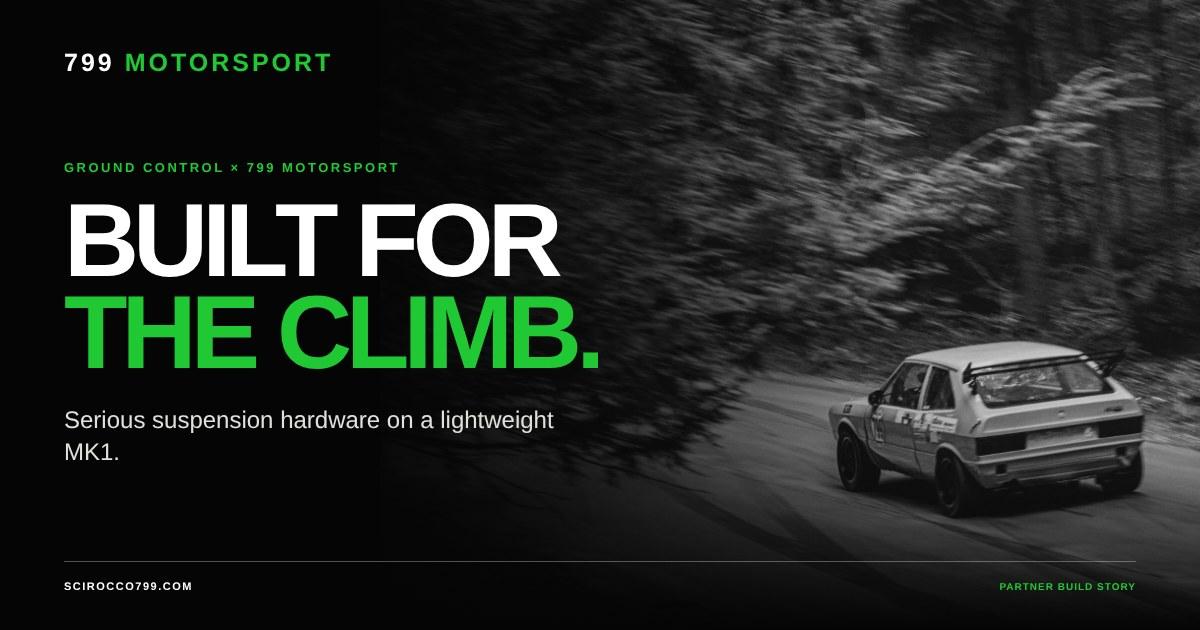
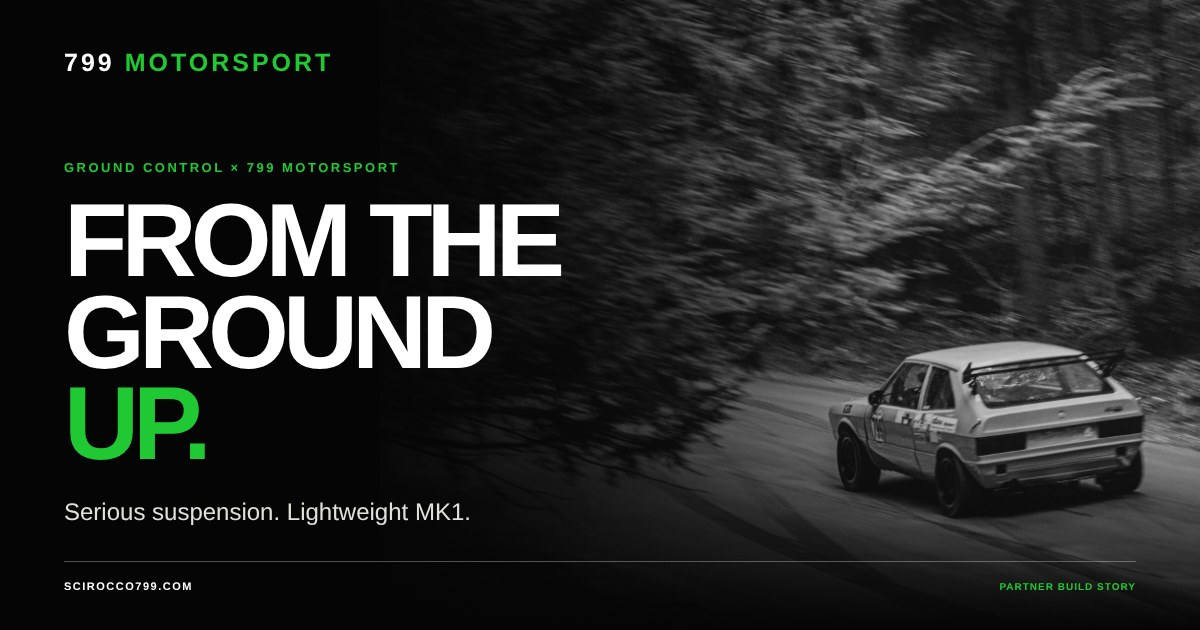
Ground Control headline: FROM THE GROUND UP.
Hero, page title and share card updated to match.

Changed region(s): [[0.0308, 0.3016, 0.4933, 0.754], [0.0617, 0.7841, 0.4008, 0.8444]]

diff --git a/ground-control.html b/ground-control.html
@@ -1,4 +1,4 @@
-<!doctype html><html lang="en"><head><meta charset="utf-8"><meta name="viewport" content="width=device-width,initial-scale=1"><title>Built for the Climb | Ground Control × 799 Motorsport</title><meta name="description" content="Inside the custom Ground Control suspension build on the 799 Motorsport Volkswagen Scirocco, from strut tower preparation to Empire Hill Climb and Grattan testing."><link rel="stylesheet" href="/mobile-nav.css?v=1"><script src="/mobile-nav.js?v=1" defer></script><style>
+<!doctype html><html lang="en"><head><meta charset="utf-8"><meta name="viewport" content="width=device-width,initial-scale=1"><title>From the Ground Up | Ground Control × 799 Motorsport</title><meta name="description" content="Inside the custom Ground Control suspension build on the 799 Motorsport Volkswagen Scirocco, from strut tower preparation to Empire Hill Climb and Grattan testing."><link rel="stylesheet" href="/mobile-nav.css?v=1"><script src="/mobile-nav.js?v=1" defer></script><style>
 :root{--green:#20c933;--paper:#f2f2ef}*{box-sizing:border-box}html{scroll-behavior:smooth}body{margin:0;background:#080a08;color:#fff;font-family:Arial,Helvetica,sans-serif}a{color:inherit}.wrap{width:min(1180px,calc(100% - 40px));margin:auto}nav{padding:26px 0;border-bottom:1px solid #343a33}.nav{display:flex;align-items:center;justify-content:space-between;gap:14px}.brand{white-space:nowrap}.links{align-items:center}.links a:hover,.links a:focus-visible{color:#20c933}.brand{text-decoration:none;font-size:18px;font-weight:900;letter-spacing:.09em}.brand span{color:var(--green)}.links{display:flex;gap:24px}.links a{font-size:11px;font-weight:900;text-decoration:none;letter-spacing:.1em;text-transform:uppercase}.eyebrow{color:var(--green);font-size:11px;font-weight:900;letter-spacing:.22em;text-transform:uppercase}h1,h2,h3{font-weight:900;text-transform:uppercase;letter-spacing:-.045em}h1{font-size:clamp(60px,10vw,140px);line-height:.86;margin:25px 0}h2{font-size:clamp(42px,6vw,80px);line-height:.94;margin:15px 0 30px}h3{font-size:26px;margin:0 0 14px}p{color:#c7cec7;font-size:17px;line-height:1.75}.lead{font-size:clamp(20px,2.5vw,28px);line-height:1.45;color:#fff}.hero{padding:105px 0 85px;position:relative;overflow:hidden;min-height:690px;display:flex;align-items:center;background-image:linear-gradient(90deg,rgba(5,5,5,.95) 0%,rgba(5,5,5,.78) 38%,rgba(5,5,5,.29) 72%,rgba(5,5,5,.14) 100%),url("/images/ground-control/empire-hero.webp");background-position:center,center 80%;background-size:cover;background-repeat:no-repeat;background-color:#0b0e0b}.hero .intro{max-width:900px}.hero h1 em{font-style:normal;color:var(--green)}.hero-tags{display:flex;flex-wrap:wrap;gap:10px;margin-top:35px}.hero-tags span{padding:11px 15px;border:1px solid #465046;font-size:10px;font-weight:900;letter-spacing:.13em;text-transform:uppercase}.feature{padding:90px 0}.split{display:grid;grid-template-columns:.85fr 1.15fr;gap:65px;align-items:start}.white{background:var(--paper);color:#111}.white p{color:#343b34}.photo{display:block;width:100%;aspect-ratio:16/9;object-fit:cover;background:#202720}.caption{font-size:12px;color:#879087;margin-top:12px}.white .caption{color:#666}.photo-frame{margin:0}.gallery{display:grid;grid-template-columns:1fr 1fr;gap:16px;margin-top:38px}.gallery figure{margin:0}.gallery img{width:100%;aspect-ratio:16/9;object-fit:cover;background:#1c211c}.gallery figcaption{padding:12px 0;color:#aab3aa;font-size:13px}.compare-section{padding:100px 0;background:#101710}.compare{position:relative;width:100%;aspect-ratio:1890/910;overflow:hidden;border:1px solid #506150;touch-action:pan-y;user-select:none;background:#1d251d;cursor:ew-resize}.compare img{position:absolute;inset:0;width:100%;height:100%;object-fit:cover;pointer-events:none}.compare img.after{clip-path:inset(0 50% 0 0)}.compare .divider{position:absolute;top:0;bottom:0;left:50%;width:3px;background:#fff;transform:translateX(-50%);pointer-events:none;box-shadow:0 0 0 1px #0006}.compare .handle{position:absolute;left:50%;top:50%;transform:translate(-50%,-50%);height:56px;width:56px;border-radius:50%;border:3px solid white;background:#111b13;color:#fff;display:grid;place-items:center;font-weight:900;font-size:20px;pointer-events:none}.compare .tag{position:absolute;z-index:2;top:20px;padding:10px 14px;background:#08140cdd;font-size:11px;font-weight:900;letter-spacing:.13em;white-space:nowrap;pointer-events:none}.compare .tag.before{right:20px}.compare .tag.after{left:20px}.compare input{position:absolute;inset:0;width:100%;height:100%;opacity:0;cursor:ew-resize;z-index:5;margin:0;touch-action:none}.compare-note{text-align:center;color:#a8bca9;font-size:13px}.specs{display:grid;grid-template-columns:repeat(3,minmax(0,1fr));gap:1px;background:#333;border:1px solid #333;margin-top:45px}.spec{display:flex;flex-direction:column;align-items:flex-start;min-width:0;min-height:210px;padding:27px 29px 30px;background:#101010;color:#fff}.spec:nth-child(even){background:#fff;color:#101010}.spec .spec-kicker{font-size:10px;font-weight:900;letter-spacing:.17em;text-transform:uppercase;opacity:.65;margin-bottom:12px}.spec strong{display:block;font-size:clamp(23px,2.5vw,31px);line-height:1.08;letter-spacing:-.025em}.spec .spec-name{display:block;margin-top:14px;font-size:14px;font-weight:800;line-height:1.4}.spec .spec-detail{display:block;margin-top:8px;font-size:12px;line-height:1.55;color:#bbb}.spec:nth-child(even) .spec-detail{color:#555}.race-week-note{max-width:920px;margin:33px 0 34px;padding-left:21px;border-left:3px solid var(--green);font-size:17px;line-height:1.75;color:#d0d7d0}.race-week-note strong{color:#fff}.steps{display:grid;grid-template-columns:repeat(3,1fr);gap:15px;margin-top:45px}.step{padding:30px;border:1px solid #4a524a;background:#121812}.step .num{font-size:42px;font-weight:900;color:var(--green)}.step p{font-size:15px}.timeline{display:grid;grid-template-columns:1fr 1fr;gap:15px;margin-top:45px}.event{padding:35px;background:#151b15;border-top:3px solid var(--green)}.event small{color:var(--green);font-weight:900;letter-spacing:.15em}.event h3{margin-top:20px}.end{padding:100px 0;background:var(--green);color:#081208}.end h2{max-width:950px}.end p{color:#102b13;max-width:800px}.btn{display:inline-block;margin-top:20px;background:#101510;color:white;text-decoration:none;font-size:12px;font-weight:900;letter-spacing:.14em;padding:18px 24px;text-transform:uppercase}footer{padding:35px 0;color:#9da69d;font-size:12px}.footer{display:flex;justify-content:space-between;gap:20px}.image-missing{background:#162016}.template{max-width:100%;height:auto;background:white;padding:10px}@media(max-width:760px){.links{display:none}.hero{padding:70px 0;min-height:640px;background-image:linear-gradient(180deg,rgba(5,5,5,.70) 0%,rgba(5,5,5,.72) 45%,rgba(5,5,5,.95) 100%),url("/images/ground-control/empire-hero.webp");background-position:center,66% center}.split,.steps,.timeline,.specs,.gallery{grid-template-columns:1fr}.feature,.compare-section,.end{padding:65px 0}.hero h1{font-size:clamp(56px,15vw,85px)}.footer{flex-direction:column}.compare .handle{width:42px;height:42px}.compare .tag{font-size:9px;top:8px;padding:7px}.compare{aspect-ratio:1890/910}} @media(max-width:760px){.spec{min-height:0;padding:25px 24px 27px}.spec strong{font-size:27px}.race-week-note{margin:25px 0 30px;font-size:16px}}@media(max-width:380px){.nav{gap:8px}.brand{font-size:15px}}@media(max-width:760px){.gallery img{height:auto;aspect-ratio:auto;object-fit:contain}.wrap{width:calc(100% - 32px)}.compare-note{font-size:11px}.hero h1{overflow-wrap:normal}}
 /* Partner identity: monochrome at rest, original sponsor colors on hover/focus. */
 .gc-logo-link{display:inline-flex;flex-direction:column;gap:13px;max-width:min(410px,100%);margin-top:34px;text-decoration:none}
@@ -48,7 +48,8 @@ nav{padding:28px 0;border-bottom:1px solid #292929}
 .links .active{padding:11px 15px;border:1px solid var(--green);opacity:1}
 @media(max-width:800px){.links{display:none}}
 @media(max-width:600px){nav{padding:20px 0}.brand{font-size:16px}}
-</style><noscript><style>.motion-word{animation-play-state:running}</style></noscript><!-- Site icons and link previews -->
+</style><noscript><style>.motion-word{animation-play-state:running}</style></noscript><link rel="stylesheet" href="/footer.css?v=1">
+<!-- Site icons and link previews -->
 <link rel="icon" href="favicon.ico" sizes="16x16 32x32 48x48">
 <link rel="icon" href="favicon.svg" type="image/svg+xml">
 <link rel="apple-touch-icon" href="apple-touch-icon.png" sizes="180x180">
@@ -56,24 +57,23 @@ nav{padding:28px 0;border-bottom:1px solid #292929}
 <link rel="canonical" href="https://scirocco799.com/ground-control">
 <meta property="og:site_name" content="Scirocco 799">
 <meta property="og:type" content="website">
-<meta property="og:title" content="Built for the Climb | Ground Control × 799 Motorsport">
+<meta property="og:title" content="From the Ground Up | Ground Control × 799 Motorsport">
 <meta property="og:description" content="Inside the custom Ground Control suspension build on the 799 Motorsport Volkswagen Scirocco, from strut tower preparation to Empire Hill Climb and Grattan testing.">
 <meta property="og:url" content="https://scirocco799.com/ground-control">
 <meta property="og:image" content="https://scirocco799.com/images/social/799-ground-control-v1.jpg">
 <meta property="og:image:type" content="image/jpeg">
 <meta property="og:image:width" content="1200">
 <meta property="og:image:height" content="630">
-<meta property="og:image:alt" content="BUILT FOR THE CLIMB. — Serious suspension hardware on a lightweight MK1.">
+<meta property="og:image:alt" content="FROM THE GROUND UP. — Serious suspension. Lightweight MK1.">
 <meta name="twitter:card" content="summary_large_image">
-<meta name="twitter:title" content="Built for the Climb | Ground Control × 799 Motorsport">
+<meta name="twitter:title" content="From the Ground Up | Ground Control × 799 Motorsport">
 <meta name="twitter:description" content="Inside the custom Ground Control suspension build on the 799 Motorsport Volkswagen Scirocco, from strut tower preparation to Empire Hill Climb and Grattan testing.">
 <meta name="twitter:image" content="https://scirocco799.com/images/social/799-ground-control-v1.jpg">
-<meta name="twitter:image:alt" content="BUILT FOR THE CLIMB. — Serious suspension hardware on a lightweight MK1.">
+<meta name="twitter:image:alt" content="FROM THE GROUND UP. — Serious suspension. Lightweight MK1.">
 <!-- /Site icons and link previews -->
-<link rel="stylesheet" href="/footer.css?v=1">
 </head><body>
 <nav aria-label="Main navigation"><div class="wrap nav"><a class="brand" href="index.html">799 <span>MOTORSPORT</span></a><div class="links"><a href="racing.html">Racing</a><a href="schedule-2027.html">2027 Schedule</a><a href="car.html">The Car</a><a href="michael-white.html">The Driver</a><a href="paddock.html">The Paddock</a><a href="photos/">Photos</a><a href="shop.html">Shop</a><a class="active" href="partners.html">Work With 799</a></div><details class="mobile-nav"><summary><span>Menu</span><svg viewBox="0 0 18 18" aria-hidden="true" focusable="false"><path class="menu-lines" d="M2 4h14M2 9h14M2 14h14"/><path class="menu-close" d="m3 3 12 12M15 3 3 15"/></svg></summary><div class="mobile-nav-panel"><a href="racing.html">Racing</a><a href="schedule-2027.html">2027 Schedule</a><a href="car.html">The Car</a><a href="michael-white.html">The Driver</a><a href="paddock.html">The Paddock</a><a href="photos/">Photos</a><a href="shop.html">Shop</a><a class="active" aria-current="page" href="partners.html">Work With 799</a></div></details></div></nav>
-<header class="hero"><div class="wrap"><div class="eyebrow">Partners / Partner Build Story</div><div class="intro"><h1>BUILT FOR<br><em>THE CLIMB.</em></h1><p class="lead">On a lightweight MK1 Scirocco, confidence through the next corner matters more than a dramatic stance. Ground Control brought serious suspension hardware to 799. The rest is a story written on the hill.</p></div><div class="hero-tags"><span>1976 VW Scirocco</span><span>Ground Control Suspension Systems</span><span>Hill Climb / Time Trial / Track Sprint</span></div></div></header>
+<header class="hero"><div class="wrap"><div class="eyebrow">Partners / Partner Build Story</div><div class="intro"><h1>FROM THE<br>GROUND<br><em>UP.</em></h1><p class="lead">On a lightweight MK1 Scirocco, confidence through the next corner matters more than a dramatic stance. Ground Control brought serious suspension hardware to 799. The rest is a story written on the hill.</p></div><div class="hero-tags"><span>1976 VW Scirocco</span><span>Ground Control Suspension Systems</span><span>Hill Climb / Time Trial / Track Sprint</span></div></div></header>
 <section class="feature white"><div class="wrap split"><div><div class="eyebrow">01 / The Build</div><h2>MORE THAN<br>LOWER.</h2><p>This build was never about lowering a car for the sake of it. It was about giving 799 a more dependable platform under braking, through quick transitions and over the unpredictable surfaces of a hill climb. Ground Control's MK1 VW setup brings KONI dampers, coilovers and adjustable camber/caster plates into the mix.</p><p>The 799 racing green springs make an entrance. Up close, the black housings and pewter-finish hardware tell the more interesting story: purpose-built pieces designed to be adjusted, tested and used.</p></div><figure class="photo-frame"><img class="photo" src="/images/ground-control/bench1.webp" alt="Custom green Ground Control coilovers and camber plates laid out before installation" loading="lazy"><figcaption class="caption">Fresh from Ground Control: a suspension package made for this little green car.</figcaption></figure></div><div class="wrap specs" aria-label="Ground Control suspension specifications"><div class="spec"><span class="spec-kicker">Ground Control / Spring</span><strong>430 LB/IN</strong><span class="spec-name">7-inch main coil springs</span><span class="spec-detail">2.5-inch inside diameter, with custom 799 racing green powder coating.</span></div><div class="spec"><span class="spec-kicker">Ground Control / Spring</span><strong>325 LB/IN</strong><span class="spec-name">8-inch main coil springs</span><span class="spec-detail">2.5-inch inside diameter, paired with helper springs for the coilover setup.</span></div><div class="spec"><span class="spec-kicker">Damping &amp; Adjustment</span><strong>KONI + GC</strong><span class="spec-name">KONI Sport front dampers. KONI Race Series rear shocks.</span><span class="spec-detail">Hybrid camber/caster plates, helper springs and firm bump stops round out the package.</span></div></div></section>
 <section class="feature"><div class="wrap"><div class="eyebrow">02 / Making It Fit</div><h2>BUILT, NOT<br>BOLTED ON.</h2><p class="lead" style="max-width:850px">A fifty-year-old Volkswagen wasn't designed around today's race hardware. Getting the new plates into the MK1 strut towers took careful fitting, a little metalwork and the willingness to make the car better rather than simply keep it original.</p><div class="steps"><div class="step"><div class="num">01</div><h3>Start with the details</h3><p>Ground Control's VW race template provided the reference for the tower work. Getting the foundation right mattered as much as the shiny new parts.</p></div><div class="step"><div class="num">02</div><h3>Make room to work</h3><p>The towers needed clearance for the adjustable plates. It was the kind of behind-the-scenes fabrication you never notice once the wheels are back on.</p></div><div class="step"><div class="num">03</div><h3>Find the baseline</h3><p>With the hardware installed, the real work shifted to ride height, alignment and damping. No magic setting, just a better place to start learning.</p></div></div><div class="gallery"><figure><img src="/images/ground-control/engine-before.webp" alt="Original Scirocco engine bay before fitting Ground Control camber caster plates" loading="lazy"><figcaption>The original mounting arrangement before the build.</figcaption></figure><figure><img src="/images/ground-control/coil1.webp" alt="Installed Ground Control green-spring coilover in Scirocco wheel well" loading="lazy"><figcaption>Ground Control coilover fitted and ready to run.</figcaption></figure><figure><img src="/images/ground-control/bench2.webp" alt="Detail of Ground Control hybrid camber caster plate" loading="lazy"><figcaption>The details: adjustment, machining and race-ready hardware.</figcaption></figure><figure><img src="/images/ground-control/after.webp" alt="Ground Control adjustable camber caster plate installed on the Scirocco strut tower" loading="lazy"><figcaption>Installed and at home in the MK1 strut tower.</figcaption></figure></div><p class="caption">From stock mounts to the finished hardware. Select any photo to see it in full.</p></div></section>
 <section class="compare-section"><div class="wrap"><div class="compare-heading"><div class="compare-heading-copy"><div class="eyebrow">03 / The Reveal</div><h2>BEFORE.<br>AFTER.</h2><p>Drag the slider to compare the Scirocco engine bay before and after the Ground Control camber/caster plate installation.</p></div><a class="gc-logo-link" href="https://groundcontrolstore.com/collections/mk1" target="_blank" rel="noopener noreferrer" aria-label="Explore Ground Control MK1 Volkswagen suspension components"><span class="gc-logo-image"><img src="/images/ground-control/ground-control-logo.png" width="1400" height="454" alt="Ground Control Suspension Systems" loading="lazy"></span><span class="gc-logo-label">EXPLORE GROUND CONTROL<small>MK1 VOLKSWAGEN SUSPENSION</small></span></a></div><div class="compare" id="compare"><img src="/images/ground-control/compare-before.webp?v=2" alt="Full Scirocco engine bay before installing the Ground Control camber and caster plates"><img class="after" id="afterImage" src="/images/ground-control/compare-after.webp?v=2" alt="Full Scirocco engine bay after installing the Ground Control camber and caster plates"><div class="divider" id="compareLine"></div><div class="handle" id="compareHandle">↔</div><span class="tag after">AFTER</span><span class="tag before">BEFORE</span><input type="range" min="0" max="100" value="50" aria-label="Compare full engine bay before and after Ground Control suspension installation" id="reveal"></div><p class="compare-note">← DRAG TO REVEAL →</p><p class="race-week-note"><strong>One week to Empire.</strong> The gray primer on the strut towers tells the story. This was a last-minute build, and we had roughly a week to get 799 ready for the Empire Hill Climb. The cutting, fitting and setup came first. There simply wasn't time for paint before race day. <strong>Paint is planned for this offseason</strong>, so the strut towers will be finished ahead of the 2027 season.</p></div></section>
